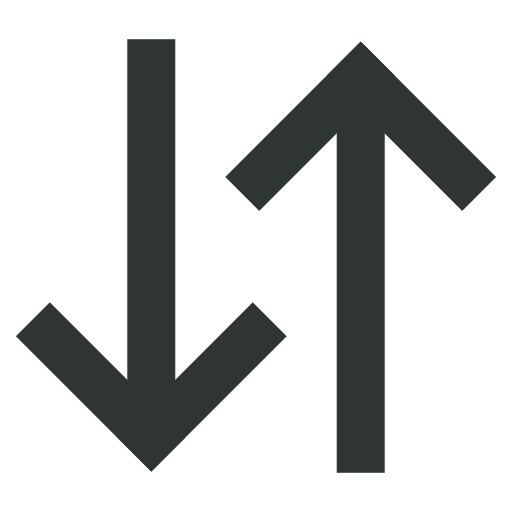
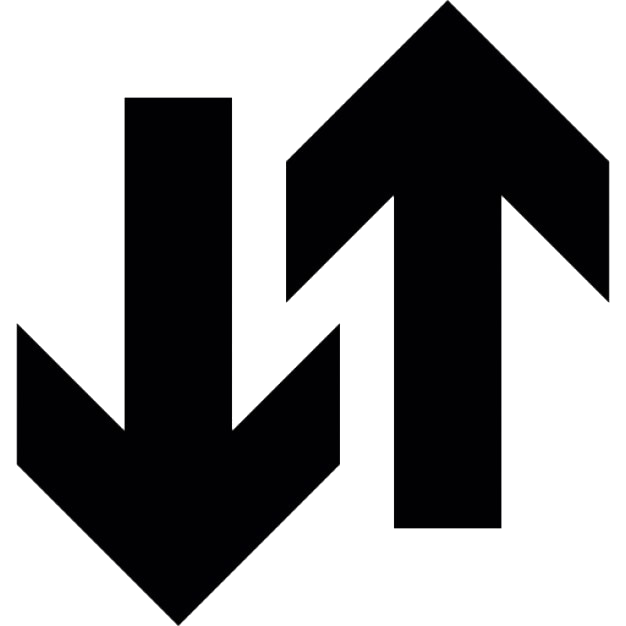
Modif bouton inversion

diff --git a/Vues/VueMenuSaisies.java b/Vues/VueMenuSaisies.java
@@ -7,6 +7,7 @@ import Vues.JComposants.CComboxBox;
 import Vues.JComposants.CTextField;
 
 import javax.swing.*;
+import javax.swing.border.EmptyBorder;
 import javax.swing.text.AbstractDocument;
 import javax.swing.text.AttributeSet;
 import javax.swing.text.BadLocationException;
@@ -161,7 +162,8 @@ public class VueMenuSaisies extends JPanel {
         constraints.anchor = GridBagConstraints.CENTER;
         constraints.fill = GridBagConstraints.HORIZONTAL;
 
-        JButton inverser = new CButton(new ImageIcon(Imager.getScaledImage("inversion.png", 25, 25))).blanc();
+        JButton inverser = new CButton(new ImageIcon(Imager.getScaledImage("inversion.png", 35, 35))).blanc();
+        inverser.setBorder(new EmptyBorder(5, 10, 5, 10));
         inverser.addActionListener((e) -> actionBoutonInverser());
 
         add(inverser, constraints);
